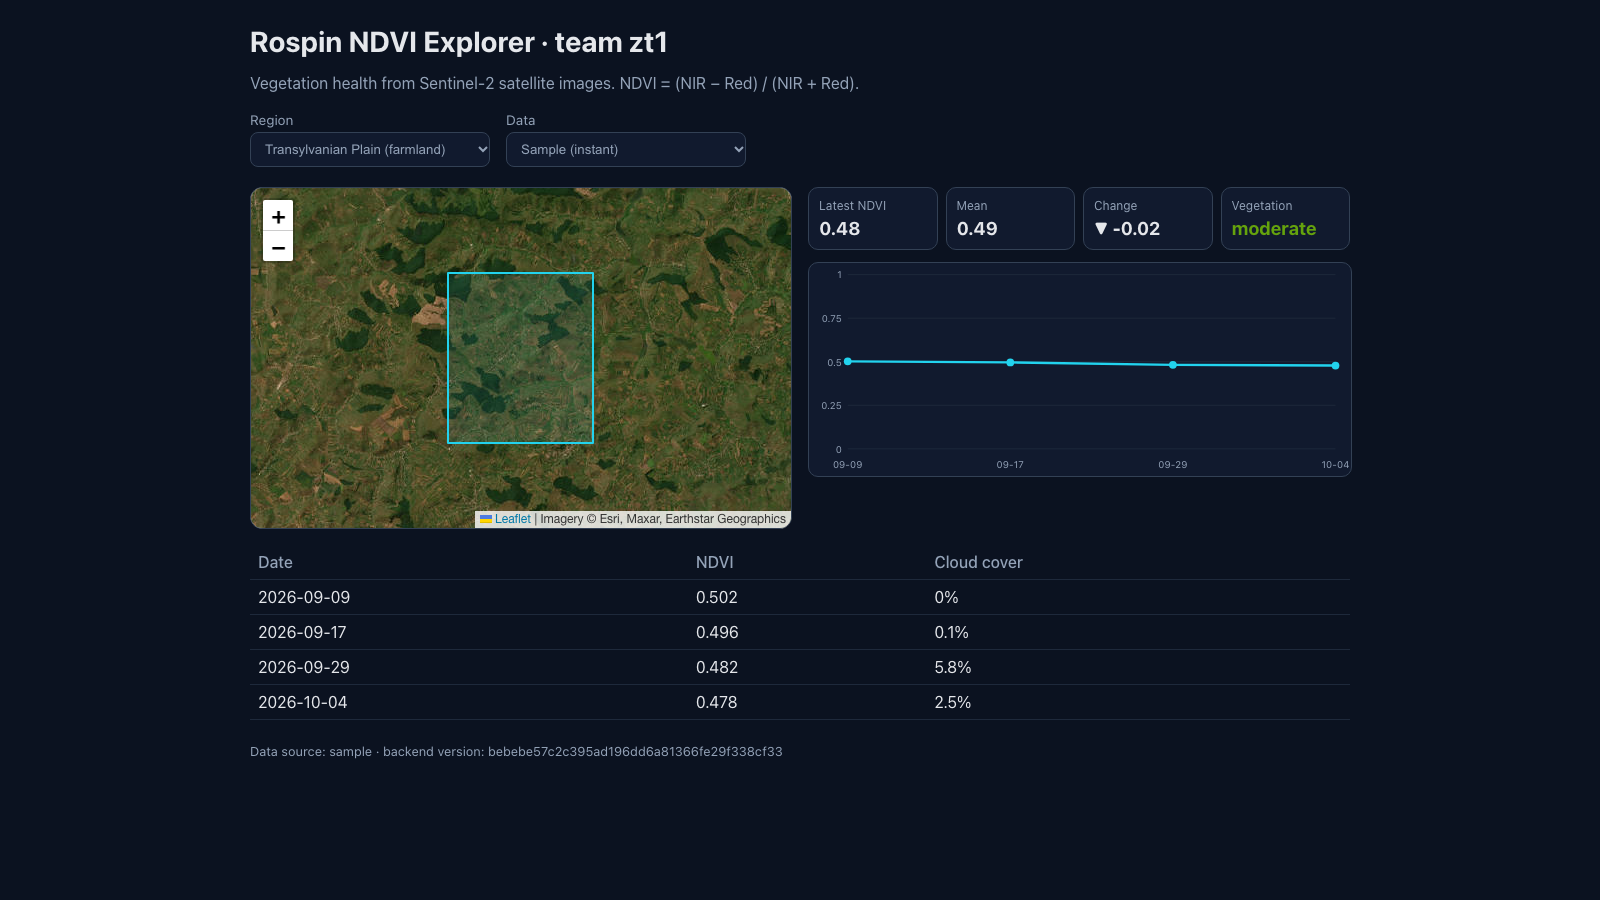
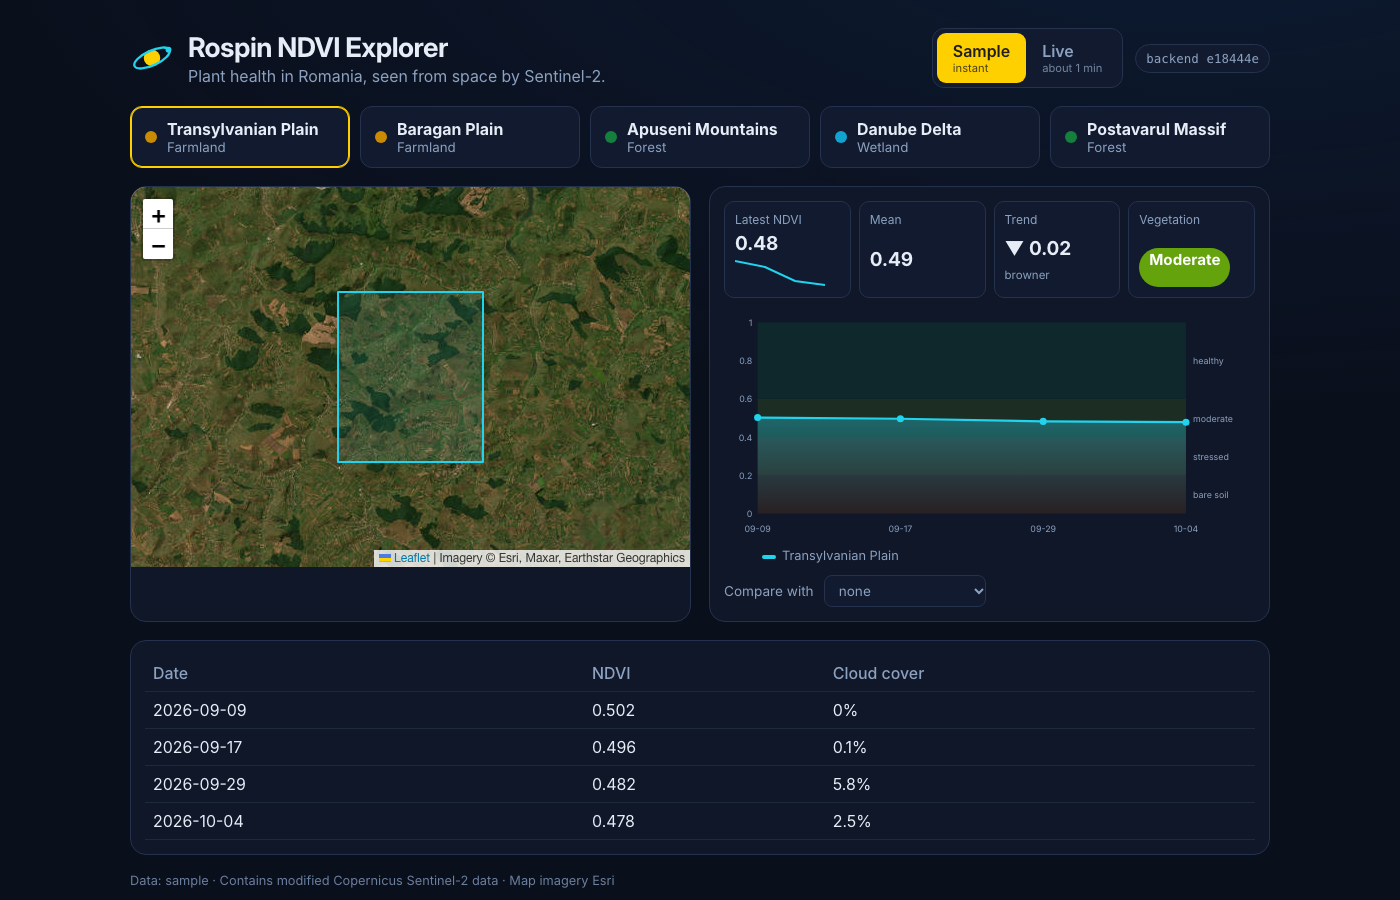
feat(frontend): new UI with health bands, region cards and compare mode

diff --git a/frontend/src/components.tsx b/frontend/src/components.tsx
@@ -1,4 +1,4 @@
-import { useEffect, useRef } from 'react'
+import { useEffect, useRef, useState } from 'react'
 import L from 'leaflet'
 import 'leaflet/dist/leaflet.css'
 import type { NdviPoint, NdviSeries, Region } from './types'
@@ -33,45 +33,95 @@ export function RegionMap({ region }: { region: Region }) {
   return <div ref={element} className="map" role="img" aria-label={`Satellite map of ${region.name}`} />
 }
 
-/** NDVI over time as a plain SVG line chart (no chart library). */
-export function NdviChart({ points }: { points: NdviPoint[] }) {
-  const width = 560
-  const height = 220
-  const pad = { left: 40, right: 16, top: 12, bottom: 28 }
+const BANDS = [
+  { from: 0.6, to: 1, color: '#15803d', label: 'healthy' },
+  { from: 0.4, to: 0.6, color: '#65a30d', label: 'moderate' },
+  { from: 0.2, to: 0.4, color: '#ca8a04', label: 'stressed' },
+  { from: 0, to: 0.2, color: '#b45309', label: 'bare soil' },
+] as const
+
+/** NDVI over time as a plain SVG chart: colour bands show what each value means. No chart library. */
+export function NdviChart({ points, name, compare, compareName }: { points: NdviPoint[]; name: string; compare?: NdviPoint[]; compareName?: string }) {
+  const [hover, setHover] = useState<number>()
+  const width = 600
+  const height = 260
+  const pad = { left: 38, right: 78, top: 14, bottom: 30 }
   const x = (i: number) => pad.left + (points.length < 2 ? 0.5 : i / (points.length - 1)) * (width - pad.left - pad.right)
   const y = (v: number) => pad.top + (1 - v) * (height - pad.top - pad.bottom)
   const line = points.map((p, i) => `${i === 0 ? 'M' : 'L'}${x(i)},${y(p.ndvi)}`).join(' ')
+  const xc = (i: number, n: number) => pad.left + (n < 2 ? 0.5 : i / (n - 1)) * (width - pad.left - pad.right)
+  const line2 = compare?.map((p, i) => `${i === 0 ? 'M' : 'L'}${xc(i, compare.length)},${y(p.ndvi)}`).join(' ')
+  const area = `${line} L${x(points.length - 1)},${y(0)} L${x(0)},${y(0)} Z`
+  const active = hover === undefined ? undefined : points[hover]
 
   return (
-    <svg viewBox={`0 0 ${width} ${height}`} className="chart" role="img" aria-label="NDVI over time">
-      {[0, 0.25, 0.5, 0.75, 1].map((tick) => (
-        <g key={tick}>
-          <line x1={pad.left} x2={width - pad.right} y1={y(tick)} y2={y(tick)} className="grid" />
-          <text x={pad.left - 6} y={y(tick) + 4} textAnchor="end" className="axis">{tick}</text>
-        </g>
-      ))}
-      <path d={line} className="line" />
-      {points.map((p, i) => (
-        <g key={p.date}>
-          <circle cx={x(i)} cy={y(p.ndvi)} r={4} className="dot" />
-          <text x={x(i)} y={height - 8} textAnchor="middle" className="axis">{p.date.slice(5)}</text>
-        </g>
-      ))}
-    </svg>
+    <div className="chart-wrap">
+      <svg viewBox={`0 0 ${width} ${height}`} className="chart" role="img" aria-label="NDVI over time"
+        onMouseLeave={() => setHover(undefined)}
+        onMouseMove={(e) => {
+          const box = e.currentTarget.getBoundingClientRect()
+          const px = ((e.clientX - box.left) / box.width) * width
+          setHover(points.reduce((best, _p, i) => (Math.abs(x(i) - px) < Math.abs(x(best) - px) ? i : best), 0))
+        }}>
+        <defs>
+          <linearGradient id="fill" x1="0" x2="0" y1="0" y2="1">
+            <stop offset="0" stopColor="#22d3ee" stopOpacity="0.35" /><stop offset="1" stopColor="#22d3ee" stopOpacity="0" />
+          </linearGradient>
+        </defs>
+        {BANDS.map((b) => (
+          <g key={b.label}>
+            <rect x={pad.left} y={y(b.to)} width={width - pad.left - pad.right} height={y(b.from) - y(b.to)} fill={b.color} opacity="0.16" />
+            <text x={width - pad.right + 8} y={(y(b.to) + y(b.from)) / 2 + 4} className="axis" fill={b.color}>{b.label}</text>
+          </g>
+        ))}
+        {[0, 0.2, 0.4, 0.6, 0.8, 1].map((tick) => (
+          <text key={tick} x={pad.left - 6} y={y(tick) + 4} textAnchor="end" className="axis">{tick}</text>
+        ))}
+        <path d={area} fill="url(#fill)" />
+        <path d={line} className="line" />
+        {line2 && <path d={line2} className="line2" />}
+        {compare?.map((p, i) => <circle key={p.date} cx={xc(i, compare.length)} cy={y(p.ndvi)} r={3.5} className="dot2" />)}
+        {points.map((p, i) => (
+          <g key={p.date}>
+            <circle cx={x(i)} cy={y(p.ndvi)} r={hover === i ? 6.5 : 4} className="dot" />
+            <text x={x(i)} y={height - 9} textAnchor="middle" className="axis">{p.date.slice(5)}</text>
+          </g>
+        ))}
+        {active && hover !== undefined && <line x1={x(hover)} x2={x(hover)} y1={pad.top} y2={y(0)} className="cursor" />}
+      </svg>
+      <div className="legend">
+        <span><i className="sw a" />{name}</span>
+        {compare && <span><i className="sw b" />{compareName}</span>}
+      </div>
+      {active && hover !== undefined && (
+        <div className="tip" style={{ left: `${(x(hover) / width) * 100}%` }}>
+          <strong>{active.ndvi.toFixed(3)}</strong> NDVI<br />{active.date} · {active.cloud_cover}% cloud
+        </div>
+      )}
+    </div>
   )
+}
+
+function Spark({ points }: { points: NdviPoint[] }) {
+  const w = 90, h = 28
+  const min = Math.min(...points.map((p) => p.ndvi)), max = Math.max(...points.map((p) => p.ndvi))
+  const span = max - min || 1
+  const d = points.map((p, i) => `${i ? 'L' : 'M'}${(i / Math.max(points.length - 1, 1)) * w},${h - ((p.ndvi - min) / span) * (h - 4) - 2}`).join(' ')
+  return <svg viewBox={`0 0 ${w} ${h}`} width={w} height={h} aria-hidden="true"><path d={d} fill="none" stroke="#22d3ee" strokeWidth="2" /></svg>
 }
 
 export function SummaryTiles({ series }: { series: NdviSeries }) {
   const { summary } = series
   const arrow = summary.change > 0.02 ? '▲' : summary.change < -0.02 ? '▼' : '■'
+  const trend = summary.change > 0.02 ? 'greener' : summary.change < -0.02 ? 'browner' : 'stable'
   return (
     <div className="tiles">
-      <div className="tile"><span>Latest NDVI</span><strong>{summary.latest.toFixed(2)}</strong></div>
+      <div className="tile big"><span>Latest NDVI</span><strong>{summary.latest.toFixed(2)}</strong><Spark points={series.points} /></div>
       <div className="tile"><span>Mean</span><strong>{summary.mean.toFixed(2)}</strong></div>
-      <div className="tile"><span>Change</span><strong>{arrow} {summary.change.toFixed(2)}</strong></div>
+      <div className="tile"><span>Trend</span><strong>{arrow} {Math.abs(summary.change).toFixed(2)}</strong><small>{trend}</small></div>
       <div className="tile">
         <span>Vegetation</span>
-        <strong style={{ color: STATUS_COLOR[summary.status] }}>{summary.status}</strong>
+        <strong className="badge" style={{ background: STATUS_COLOR[summary.status] }}>{summary.status}</strong>
       </div>
     </div>
   )

diff --git a/frontend/src/App.css b/frontend/src/App.css
@@ -1,25 +1,62 @@
-:root { color-scheme: dark; font-family: system-ui, sans-serif; background: #0b1220; color: #e5e7eb; }
-body { margin: 0; }
-main { max-width: 1100px; margin: 0 auto; padding: 24px 16px 48px; }
-h1 { margin: 0; font-size: 1.8rem; }
-header p, .muted, footer { color: #94a3b8; }
-.controls { display: flex; gap: 16px; flex-wrap: wrap; margin: 20px 0; }
-label { display: grid; gap: 4px; font-size: 0.85rem; color: #94a3b8; }
-select { padding: 8px 10px; border-radius: 8px; border: 1px solid #334155; background: #111a2e; color: inherit; min-width: 240px; }
-.grid { display: grid; grid-template-columns: 1fr 1fr; gap: 16px; }
-@media (max-width: 800px) { .grid { grid-template-columns: 1fr; } }
-.map { height: 340px; border-radius: 12px; border: 1px solid #334155; }
+:root { color-scheme: dark; font-family: Inter, system-ui, sans-serif; background: #0a0f1c; color: #e6edf7; }
+* { box-sizing: border-box; }
+body { margin: 0; background: radial-gradient(1200px 500px at 85% -10%, #12315a55, transparent), #0a0f1c; min-height: 100vh; }
+.shell { max-width: 1180px; margin: 0 auto; padding: 28px 20px 48px; display: grid; gap: 18px; }
+.hero { display: flex; justify-content: space-between; align-items: center; gap: 20px; flex-wrap: wrap; }
+.brand { display: flex; gap: 14px; align-items: center; }
+h1 { margin: 0; font-size: 1.7rem; letter-spacing: -0.02em; }
+.brand p { margin: 2px 0 0; color: #8da2c0; }
+.hero-side { display: flex; align-items: center; gap: 12px; }
+.seg { display: flex; background: #111a2e; border: 1px solid #25324d; border-radius: 12px; padding: 4px; }
+.seg button { background: none; border: 0; color: #8da2c0; padding: 8px 16px; border-radius: 9px; cursor: pointer; font: inherit; font-weight: 600; display: grid; text-align: left; }
+.seg button small { font-weight: 400; font-size: 0.7rem; opacity: 0.8; }
+.seg button.on { background: #FFD000; color: #1e1e1e; }
+.pill { font: 0.78rem ui-monospace, monospace; padding: 6px 10px; border-radius: 99px; background: #111a2e; border: 1px solid #25324d; color: #8da2c0; }
+.regions { display: grid; grid-template-columns: repeat(auto-fit, minmax(210px, 1fr)); gap: 10px; }
+.region { display: grid; grid-template-columns: auto 1fr; column-gap: 10px; align-items: center; text-align: left; background: #111a2e; border: 1px solid #25324d; border-radius: 12px; padding: 12px 14px; color: inherit; cursor: pointer; font: inherit; transition: border-color 0.15s, transform 0.15s; }
+.region:hover { border-color: #3b5688; transform: translateY(-1px); }
+.region.on { border-color: #FFD000; box-shadow: 0 0 0 1px #FFD000 inset; }
+.region small { grid-column: 2; color: #8da2c0; }
+.dot { width: 12px; height: 12px; border-radius: 50%; background: #65a30d; grid-row: span 2; }
+.dot.forest { background: #15803d; } .dot.wetland { background: #11a2d0; } .dot.cropland { background: #ca8a04; }
+.grid { display: grid; grid-template-columns: 1fr 1fr; gap: 18px; }
+@media (max-width: 860px) { .grid { grid-template-columns: 1fr; } }
+.panel { background: #0f1729; border: 1px solid #25324d; border-radius: 16px; padding: 14px; }
+.map-panel { padding: 0; overflow: hidden; }
+.map { height: 380px; }
 .tiles { display: grid; grid-template-columns: repeat(4, 1fr); gap: 8px; margin-bottom: 12px; }
-.tile { background: #111a2e; border: 1px solid #334155; border-radius: 10px; padding: 10px; display: grid; gap: 4px; }
-.tile span { font-size: 0.75rem; color: #94a3b8; }
-.tile strong { font-size: 1.15rem; }
-.chart { width: 100%; background: #111a2e; border: 1px solid #334155; border-radius: 10px; }
+.tile { background: #111a2e; border: 1px solid #25324d; border-radius: 10px; padding: 10px; display: grid; gap: 4px; }
+.tile span { font-size: 0.75rem; color: #8da2c0; }
+.tile strong { font-size: 1.2rem; }
+.chart { width: 100%; }
 .chart .grid { stroke: #1e293b; }
-.chart .axis { fill: #94a3b8; font-size: 10px; }
+.chart .axis { fill: #8da2c0; font-size: 10px; }
 .chart .line { fill: none; stroke: #22d3ee; stroke-width: 2.5; }
 .chart .dot { fill: #22d3ee; }
-table { width: 100%; border-collapse: collapse; margin-top: 16px; }
+table { width: 100%; border-collapse: collapse; }
 th, td { text-align: left; padding: 8px; border-bottom: 1px solid #1e293b; }
-th { color: #94a3b8; font-weight: 500; }
+th { color: #8da2c0; font-weight: 500; }
 .error { background: #451a1a; border: 1px solid #991b1b; padding: 10px; border-radius: 8px; }
-footer { margin-top: 24px; font-size: 0.8rem; }
+.muted { color: #8da2c0; } .pulse { animation: pulse 1.2s ease-in-out infinite; }
+@keyframes pulse { 50% { opacity: 0.4; } }
+footer { color: #6b7f9e; font-size: 0.8rem; }
+
+.chart-wrap { position: relative; }
+.tip { position: absolute; top: 4px; transform: translateX(-50%); background: #0a0f1c; border: 1px solid #3b5688; border-radius: 8px; padding: 6px 10px; font-size: 0.78rem; pointer-events: none; white-space: nowrap; }
+.chart .cursor { stroke: #3b5688; stroke-dasharray: 3 3; }
+.chart .dot { transition: r 0.1s; }
+.tile.big { grid-column: span 1; }
+.tile small { color: #8da2c0; font-size: 0.72rem; }
+.badge { display: inline-block; padding: 2px 10px; border-radius: 99px; color: #fff; font-size: 0.95rem !important; text-transform: capitalize; width: fit-content; }
+
+.chart .line2 { fill: none; stroke: #f472b6; stroke-width: 2.5; stroke-dasharray: 6 4; }
+.chart .dot2 { fill: #f472b6; }
+.legend { display: flex; gap: 18px; margin: 4px 0 0 38px; font-size: 0.8rem; color: #8da2c0; }
+.sw { display: inline-block; width: 14px; height: 4px; border-radius: 2px; margin-right: 6px; vertical-align: middle; }
+.sw.a { background: #22d3ee; } .sw.b { background: #f472b6; }
+.cmp { display: flex; align-items: center; gap: 10px; margin-top: 12px; color: #8da2c0; font-size: 0.85rem; }
+.cmp select { background: #111a2e; color: inherit; border: 1px solid #25324d; border-radius: 8px; padding: 6px 10px; font: inherit; }
+.skeleton { display: grid; gap: 10px; }
+.skeleton i { display: block; height: 70px; border-radius: 10px; background: linear-gradient(90deg, #111a2e, #1a2745, #111a2e); background-size: 200% 100%; animation: shimmer 1.3s linear infinite; }
+.skeleton i:nth-child(3) { height: 180px; }
+@keyframes shimmer { to { background-position: -200% 0; } }

diff --git a/frontend/src/App.tsx b/frontend/src/App.tsx
@@ -4,11 +4,15 @@ import { NdviChart, RegionMap, SummaryTiles } from './components'
 import type { NdviSeries, Region, Source } from './types'
 import './App.css'
 
+const COVER_LABEL: Record<string, string> = { cropland: 'Farmland', forest: 'Forest', wetland: 'Wetland' }
+
 export default function App() {
   const [regions, setRegions] = useState<Region[]>([])
   const [regionId, setRegionId] = useState('')
   const [source, setSource] = useState<Source>('sample')
   const [series, setSeries] = useState<NdviSeries>()
+  const [compareId, setCompareId] = useState('')
+  const [compare, setCompare] = useState<NdviSeries>()
   const [loading, setLoading] = useState(false)
   const [error, setError] = useState<string>()
   const [version, setVersion] = useState('')
@@ -33,58 +37,83 @@ export default function App() {
       .finally(() => setLoading(false))
   }, [regionId, source])
 
+  useEffect(() => {
+    if (!compareId) { setCompare(undefined); return }
+    getNdvi(compareId, source).then(setCompare).catch(() => setCompare(undefined))
+  }, [compareId, source])
+
   const region = regions.find((r) => r.id === regionId)
 
   return (
-    <main>
-      <header>
-        <h1>Rospin NDVI Explorer</h1>
-        <p>Vegetation health from Sentinel-2 satellite images. NDVI = (NIR − Red) / (NIR + Red).</p>
+    <div className="shell">
+      <header className="hero">
+        <div className="brand">
+          <svg viewBox="0 0 48 48" width="44" height="44" aria-hidden="true">
+            <circle cx="24" cy="24" r="9" fill="#FFD000" />
+            <ellipse cx="24" cy="24" rx="21" ry="8" fill="none" stroke="#22d3ee" strokeWidth="2.5" transform="rotate(-25 24 24)" />
+            <circle cx="42" cy="15" r="3.2" fill="#22d3ee" />
+          </svg>
+          <div>
+            <h1>Rospin NDVI Explorer</h1>
+            <p>Plant health in Romania, seen from space by Sentinel-2.</p>
+          </div>
+        </div>
+        <div className="hero-side">
+          <div className="seg" role="group" aria-label="Data source">
+            <button className={source === 'sample' ? 'on' : ''} onClick={() => setSource('sample')}>Sample<small>instant</small></button>
+            <button className={source === 'live' ? 'on' : ''} onClick={() => setSource('live')}>Live<small>about 1 min</small></button>
+          </div>
+          <span className="pill" title="Version of the backend that answers (git commit)">backend {version ? version.slice(0, 7) : '…'}</span>
+        </div>
       </header>
 
-      <section className="controls">
-        <label>
-          Region
-          <select value={regionId} onChange={(e) => setRegionId(e.target.value)}>
-            {regions.map((r) => (
-              <option key={r.id} value={r.id}>{r.name}</option>
-            ))}
-          </select>
-        </label>
-        <label>
-          Data
-          <select value={source} onChange={(e) => setSource(e.target.value as Source)}>
-            <option value="sample">Sample (instant)</option>
-            <option value="live">Live Sentinel-2 (about a minute)</option>
-          </select>
-        </label>
-      </section>
+      <nav className="regions" aria-label="Regions">
+        {regions.map((r) => (
+          <button key={r.id} className={`region ${r.id === regionId ? 'on' : ''}`} onClick={() => setRegionId(r.id)}>
+            <span className={`dot ${r.land_cover}`} />
+            <strong>{r.name.replace(/ \(.*\)/, '')}</strong>
+            <small>{COVER_LABEL[r.land_cover] ?? r.land_cover}</small>
+          </button>
+        ))}
+      </nav>
 
       {error && <p className="error" role="alert">{error}</p>}
-      {loading && <p className="muted">Reading satellite data…</p>}
 
-      <div className="grid">
-        {region && <RegionMap region={region} />}
-        {series && !loading && (
-          <div>
-            <SummaryTiles series={series} />
-            <NdviChart points={series.points} />
-          </div>
-        )}
-      </div>
+      <main className="grid">
+        <section className="panel map-panel">{region && <RegionMap region={region} />}</section>
+        <section className="panel">
+          {loading && <div className="skeleton" aria-label="Loading"><i /><i /><i /></div>}
+          {series && !loading && (
+            <>
+              <SummaryTiles series={series} />
+              <NdviChart points={series.points} name={region?.name.replace(/ \(.*\)/, '') ?? ''} compare={compare?.points} compareName={compare?.region.name.replace(/ \(.*\)/, '')} />
+              <label className="cmp">Compare with
+                <select value={compareId} onChange={(e) => setCompareId(e.target.value)}>
+                  <option value="">none</option>
+                  {regions.filter((r) => r.id !== regionId).map((r) => <option key={r.id} value={r.id}>{r.name.replace(/ \(.*\)/, '')}</option>)}
+                </select>
+              </label>
+            </>
+          )}
+        </section>
+      </main>
 
       {series && !loading && (
-        <table>
-          <thead><tr><th>Date</th><th>NDVI</th><th>Cloud cover</th></tr></thead>
-          <tbody>
-            {series.points.map((p) => (
-              <tr key={p.date}><td>{p.date}</td><td>{p.ndvi.toFixed(3)}</td><td>{p.cloud_cover}%</td></tr>
-            ))}
-          </tbody>
-        </table>
+        <section className="panel">
+          <table>
+            <thead><tr><th>Date</th><th>NDVI</th><th>Cloud cover</th></tr></thead>
+            <tbody>
+              {series.points.map((p) => (
+                <tr key={p.date}><td>{p.date}</td><td>{p.ndvi.toFixed(3)}</td><td>{p.cloud_cover}%</td></tr>
+              ))}
+            </tbody>
+          </table>
+        </section>
       )}
 
-      <footer>Data source: {series?.source ?? '…'} · backend version: {version || '…'}</footer>
-    </main>
+      <footer>
+        Data: {series?.source ?? '…'} · Contains modified Copernicus Sentinel-2 data · Map imagery Esri
+      </footer>
+    </div>
   )
 }
